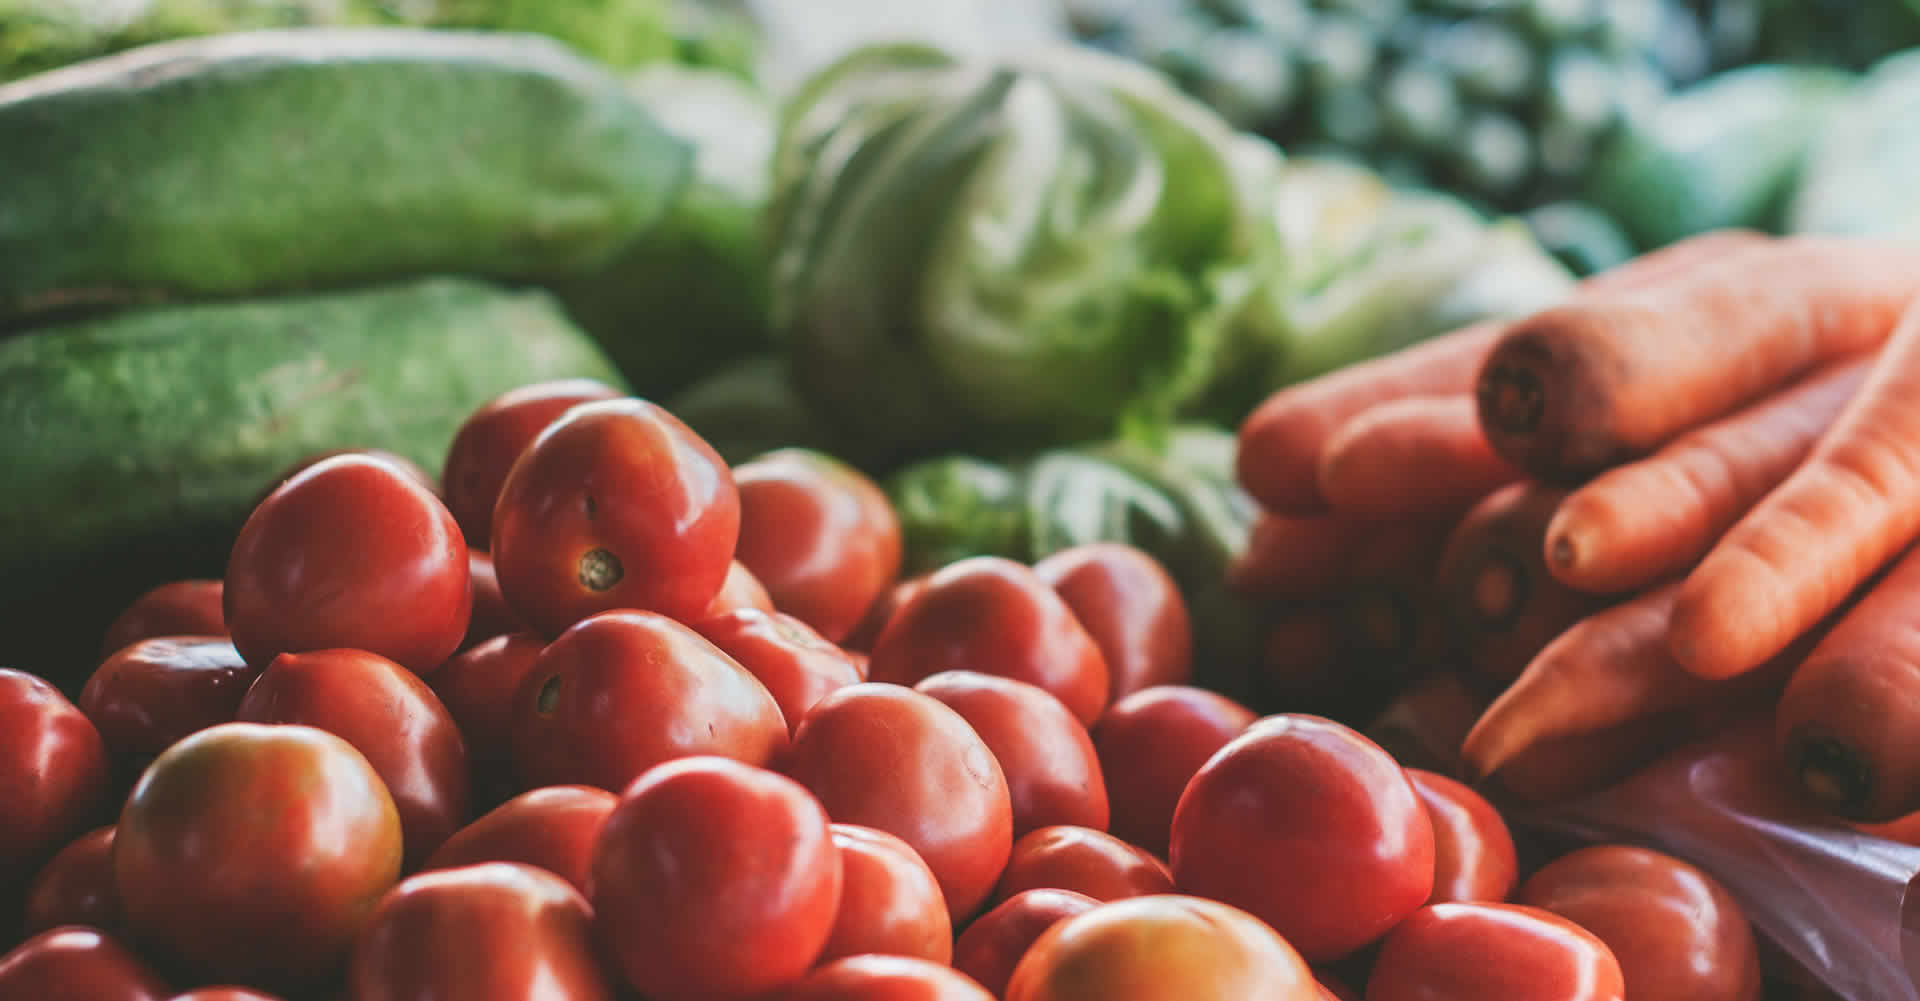
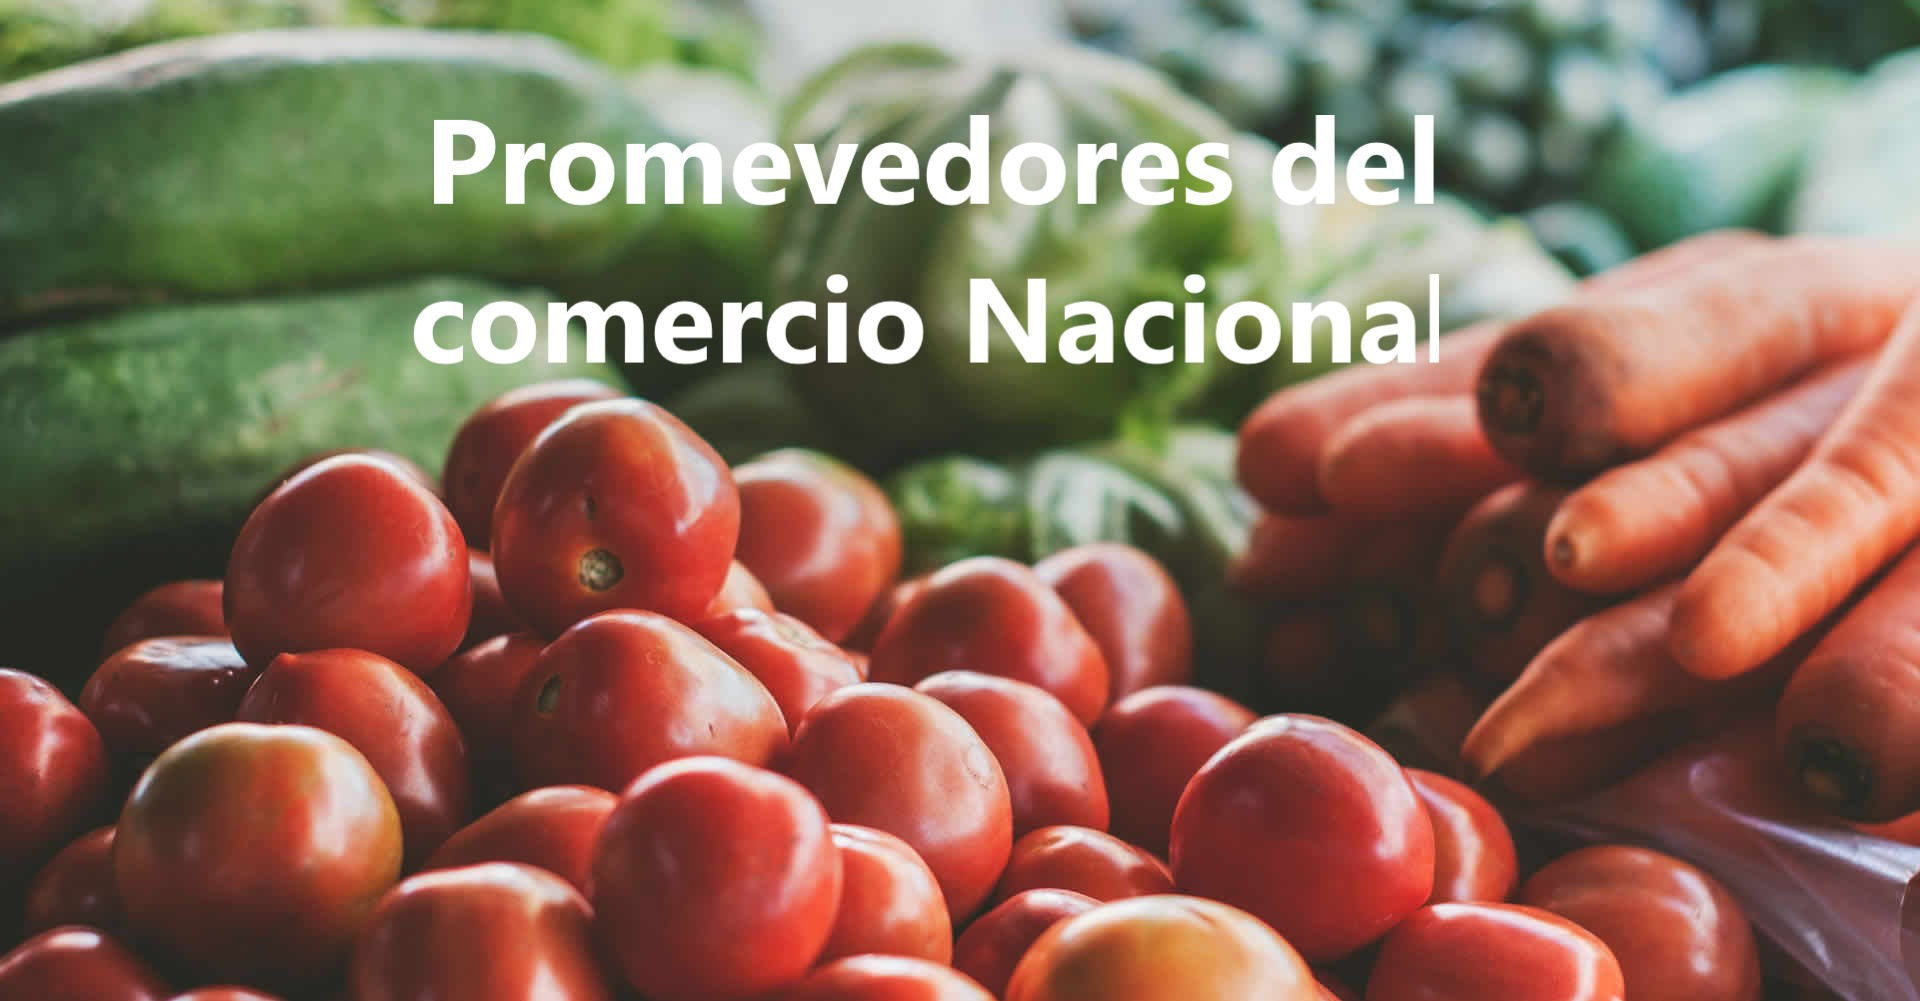
Inicio
Me falta aun editarlo :c no me gusta como queda, seguire rapidito

Changed region(s): [[0.2188, 0.1239, 0.75, 0.2168], [0.2188, 0.2787, 0.75, 0.3716]]

diff --git a/src/app/inicio/inicio.component.html b/src/app/inicio/inicio.component.html
@@ -1,40 +1,37 @@
-
-<!--<div class="di">
-
-    <div class="container px-lg-5">
-        <div class="p-4 p-lg-5 bg-light rounded-3 text-center">
-            <div class="m-4 m-lg-5">
-                <h1 class="display-5 fw-bold">A warm welcome!</h1>
-                
-                <p class="fs-4">Bootstrap utility classes are used to create this jumbotron since the old component has been removed from the framework. Why create custom CSS when you can use utilities?</p>
-                <a class="btn btn-primary btn-lg" href="#!">Call to action</a>
-            </div>
-        </div>
-    </div>
+<div class="text-center my-5">
+    <img class="img-fluid  mb-4" src="assets/img/banner-02.jpg" alt="..." />
+    <h1 class="text-white fs-3 fw-bolder">Full Width Pics</h1>
+    <p class="text-white-50 mb-0">Landing Page Template</p>
+</div>
 
 
-</div>-->
 
 <!-- Start Categories  -->
 <div class="categories-shop">
     <div class="container">
+        <div class="text-center">
+            <h1 class="section-heading text-uppercase">TENDENCIA DE PRODUCTOS</h1>
+            <br>
+            <br>
+            
+        </div>
         <div class="row">
             <div class="col-lg-4 col-md-4 col-sm-12 col-xs-12">
                 <div class="shop-cat-box">
                     <img class="img-fluid" src="assets/img/categories_img_01.jpg" alt="" />
-                    <a class="btn hvr-hover" href="#">Lorem ipsum dolor</a>
+                    <a class="btn hvr-hover" href="#">TUBERCULOS</a>
                 </div>
             </div>
             <div class="col-lg-4 col-md-4 col-sm-12 col-xs-12">
                 <div class="shop-cat-box">
                     <img class="img-fluid" src="assets/img/categories_img_02.jpg" alt="" />
-                    <a class="btn hvr-hover" href="#">Lorem ipsum dolor</a>
+                    <a class="btn hvr-hover" href="#">FRUTAS</a>
                 </div>
             </div>
             <div class="col-lg-4 col-md-4 col-sm-12 col-xs-12">
                 <div class="shop-cat-box">
                     <img class="img-fluid" src="assets/img/categories_img_03.jpg" alt="" />
-                    <a class="btn hvr-hover" href="#">Lorem ipsum dolor</a>
+                    <a class="btn hvr-hover" href="#">LEGUMBRES</a>
                 </div>
             </div>
         </div>
@@ -179,76 +176,7 @@
   </div>
   <!-- End Products  -->
   
-  <!-- Start Blog  -->
-  <div class="latest-blog">
-    <div class="container">
-        <div class="row">
-            <div class="col-lg-12">
-                <div class="title-all text-center">
-                    <h1>latest blog</h1>
-                    <p>Lorem ipsum dolor sit amet, consectetur adipiscing elit. Sed sit amet lacus enim.</p>
-                </div>
-            </div>
-        </div>
-        <div class="row">
-            <div class="col-md-6 col-lg-4 col-xl-4">
-                <div class="blog-box">
-                    <div class="blog-img">
-                        <img class="img-fluid" src="assets/img/blog-img.jpg" alt="" />
-                    </div>
-                    <div class="blog-content">
-                        <div class="title-blog">
-                            <h3>Fusce in augue non nisi fringilla</h3>
-                            <p>Nulla ut urna egestas, porta libero id, suscipit orci. Quisque in lectus sit amet urna dignissim feugiat. Mauris molestie egestas pharetra. Ut finibus cursus nunc sed mollis. Praesent laoreet lacinia elit id lobortis.</p>
-                        </div>
-                        <ul class="option-blog">
-                            <li><a href="#"><i class="far fa-heart"></i></a></li>
-                            <li><a href="#"><i class="fas fa-eye"></i></a></li>
-                            <li><a href="#"><i class="far fa-comments"></i></a></li>
-                        </ul>
-                    </div>
-                </div>
-            </div>
-            <div class="col-md-6 col-lg-4 col-xl-4">
-                <div class="blog-box">
-                    <div class="blog-img">
-                        <img class="img-fluid" src="assets/img/blog-img-01.jpg" alt="" />
-                    </div>
-                    <div class="blog-content">
-                        <div class="title-blog">
-                            <h3>Fusce in augue non nisi fringilla</h3>
-                            <p>Nulla ut urna egestas, porta libero id, suscipit orci. Quisque in lectus sit amet urna dignissim feugiat. Mauris molestie egestas pharetra. Ut finibus cursus nunc sed mollis. Praesent laoreet lacinia elit id lobortis.</p>
-                        </div>
-                        <ul class="option-blog">
-                            <li><a href="#"><i class="far fa-heart"></i></a></li>
-                            <li><a href="#"><i class="fas fa-eye"></i></a></li>
-                            <li><a href="#"><i class="far fa-comments"></i></a></li>
-                        </ul>
-                    </div>
-                </div>
-            </div>
-            <div class="col-md-6 col-lg-4 col-xl-4">
-                <div class="blog-box">
-                    <div class="blog-img">
-                        <img class="img-fluid" src="assets/img/blog-img-02.jpg" alt="" />
-                    </div>
-                    <div class="blog-content">
-                        <div class="title-blog">
-                            <h3>Fusce in augue non nisi fringilla</h3>
-                            <p>Nulla ut urna egestas, porta libero id, suscipit orci. Quisque in lectus sit amet urna dignissim feugiat. Mauris molestie egestas pharetra. Ut finibus cursus nunc sed mollis. Praesent laoreet lacinia elit id lobortis.</p>
-                        </div>
-                        <ul class="option-blog">
-                            <li><a href="#"><i class="far fa-heart"></i></a></li>
-                            <li><a href="#"><i class="fas fa-eye"></i></a></li>
-                            <li><a href="#"><i class="far fa-comments"></i></a></li>
-                        </ul>
-                    </div>
-                </div>
-            </div>
-        </div>
-    </div>
-  </div>
-  <!-- End Blog  -->
+  
   
   
   

diff --git a/src/assets/css/owl.carousel.min.css b/src/assets/css/owl.carousel.min.css
@@ -2,5 +2,6 @@
  * Owl Carousel v2.3.4
  * Copyright 2013-2018 David Deutsch
  * Licensed under: SEE LICENSE IN https://github.com/OwlCarousel2/OwlCarousel2/blob/master/LICENSE
- */
+ 
 .owl-carousel,.owl-carousel .owl-item{-webkit-tap-highlight-color:transparent;position:relative}.owl-carousel{display:none;width:100%;z-index:1}.owl-carousel .owl-stage{position:relative;-ms-touch-action:pan-Y;touch-action:manipulation;-moz-backface-visibility:hidden}.owl-carousel .owl-stage:after{content:".";display:block;clear:both;visibility:hidden;line-height:0;height:0}.owl-carousel .owl-stage-outer{position:relative;overflow:hidden;-webkit-transform:translate3d(0,0,0)}.owl-carousel .owl-item,.owl-carousel .owl-wrapper{-webkit-backface-visibility:hidden;-moz-backface-visibility:hidden;-ms-backface-visibility:hidden;-webkit-transform:translate3d(0,0,0);-moz-transform:translate3d(0,0,0);-ms-transform:translate3d(0,0,0)}.owl-carousel .owl-item{min-height:1px;float:left;-webkit-backface-visibility:hidden;-webkit-touch-callout:none}.owl-carousel .owl-item img{display:block;width:100%}.owl-carousel .owl-dots.disabled,.owl-carousel .owl-nav.disabled{display:none}.no-js .owl-carousel,.owl-carousel.owl-loaded{display:block}.owl-carousel .owl-dot,.owl-carousel .owl-nav .owl-next,.owl-carousel .owl-nav .owl-prev{cursor:pointer;-webkit-user-select:none;-khtml-user-select:none;-moz-user-select:none;-ms-user-select:none;user-select:none}.owl-carousel .owl-nav button.owl-next,.owl-carousel .owl-nav button.owl-prev,.owl-carousel button.owl-dot{background:0 0;color:inherit;border:none;padding:0!important;font:inherit}.owl-carousel.owl-loading{opacity:0;display:block}.owl-carousel.owl-hidden{opacity:0}.owl-carousel.owl-refresh .owl-item{visibility:hidden}.owl-carousel.owl-drag .owl-item{-ms-touch-action:pan-y;touch-action:pan-y;-webkit-user-select:none;-moz-user-select:none;-ms-user-select:none;user-select:none}.owl-carousel.owl-grab{cursor:move;cursor:grab}.owl-carousel.owl-rtl{direction:rtl}.owl-carousel.owl-rtl .owl-item{float:right}.owl-carousel .animated{animation-duration:1s;animation-fill-mode:both}.owl-carousel .owl-animated-in{z-index:0}.owl-carousel .owl-animated-out{z-index:1}.owl-carousel .fadeOut{animation-name:fadeOut}@keyframes fadeOut{0%{opacity:1}100%{opacity:0}}.owl-height{transition:height .5s ease-in-out}.owl-carousel .owl-item .owl-lazy{opacity:0;transition:opacity .4s ease}.owl-carousel .owl-item .owl-lazy:not([src]),.owl-carousel .owl-item .owl-lazy[src^=""]{max-height:0}.owl-carousel .owl-item img.owl-lazy{transform-style:preserve-3d}.owl-carousel .owl-video-wrapper{position:relative;height:100%;background:#000}.owl-carousel .owl-video-play-icon{position:absolute;height:80px;width:80px;left:50%;top:50%;margin-left:-40px;margin-top:-40px;background:url(owl.video.play.png) no-repeat;cursor:pointer;z-index:1;-webkit-backface-visibility:hidden;transition:transform .1s ease}.owl-carousel .owl-video-play-icon:hover{-ms-transform:scale(1.3,1.3);transform:scale(1.3,1.3)}.owl-carousel .owl-video-playing .owl-video-play-icon,.owl-carousel .owl-video-playing .owl-video-tn{display:none}.owl-carousel .owl-video-tn{opacity:0;height:100%;background-position:center center;background-repeat:no-repeat;background-size:contain;transition:opacity .4s ease}.owl-carousel .owl-video-frame{position:relative;z-index:1;height:100%;width:100%}
+*/

diff --git a/src/app/inicio/inicio.component.css b/src/app/inicio/inicio.component.css
@@ -1,0 +1,31 @@
+
+.carouselTicker {
+    overflow: hidden;
+    float: none;
+    -webkit-user-select: none;
+    -moz-user-select: none;
+    -ms-user-select: none;
+    -o-user-select: none;
+    user-select: none;
+  }
+  
+  .carouselTicker__list {
+    margin: 10px 0;
+    padding: 0;
+    list-style-type: none;
+    overflow: hidden;
+  }
+  
+  .carouselTicker__item {
+    margin: 0;
+    float: left;
+    border: 4px solid #fbb714;
+    background-color:#fbb714;
+    margin-left: 5px;
+    width: 101px;
+    height: 40px;
+    color:#fff;
+    line-height: 34px;
+    text-align: center;
+  }
+  

diff --git a/src/assets/css/carousel-ticker.css b/src/assets/css/carousel-ticker.css
@@ -1,5 +1,5 @@
 
-.carouselTicker {
+/*.carouselTicker {
   overflow: hidden;
   float: none;
   -webkit-user-select: none;
@@ -27,4 +27,4 @@
   color:#fff;
   line-height: 34px;
   text-align: center;
-}
+}*/
